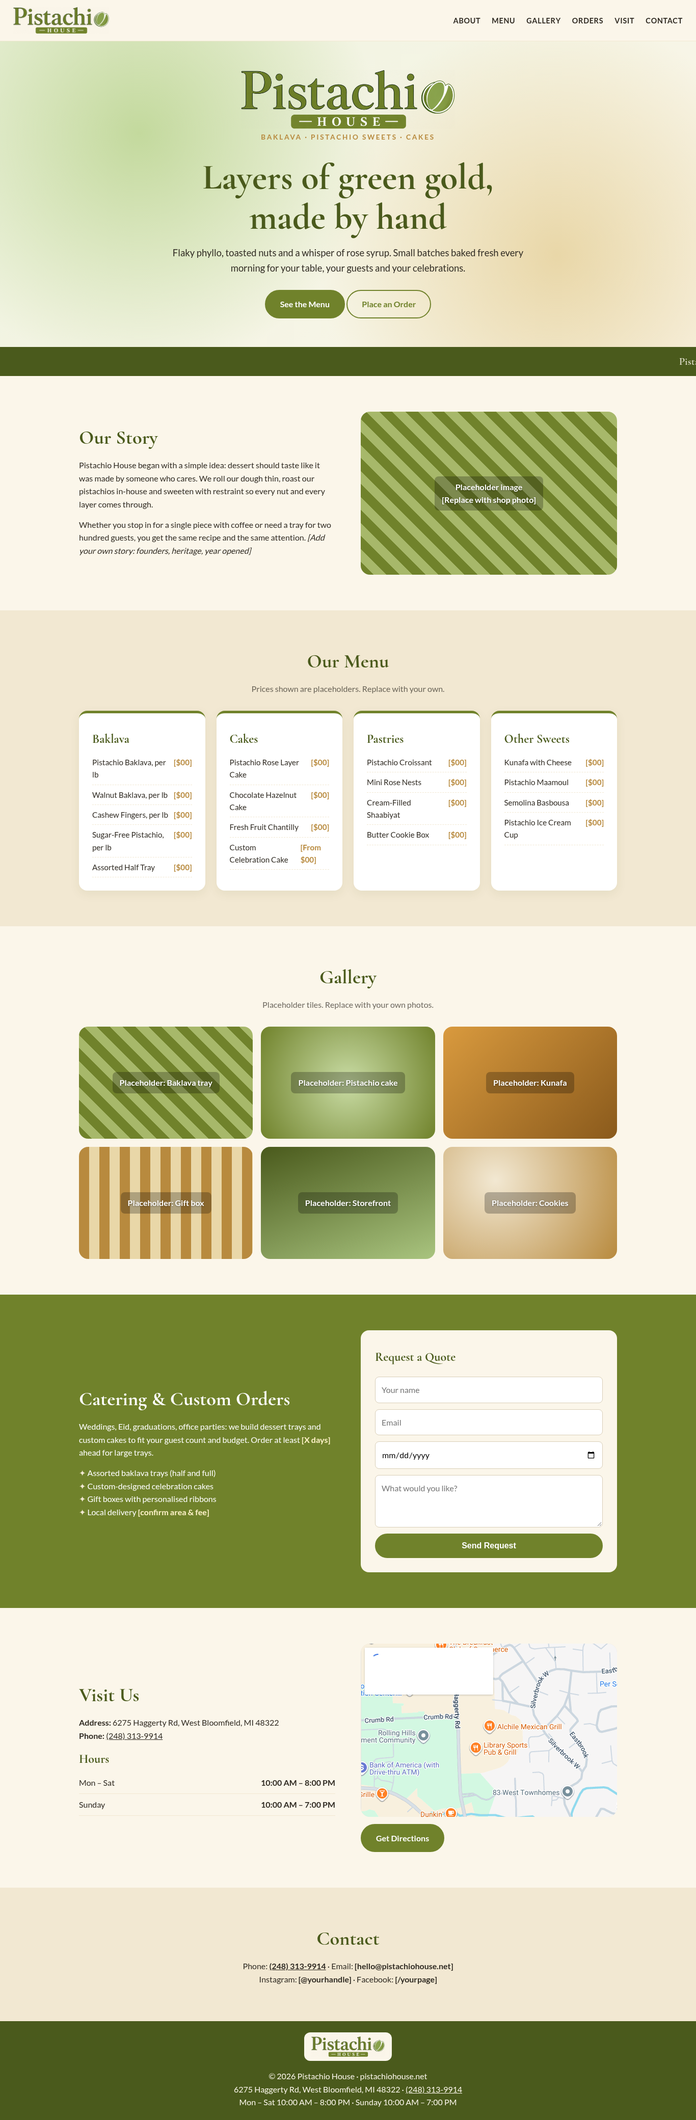
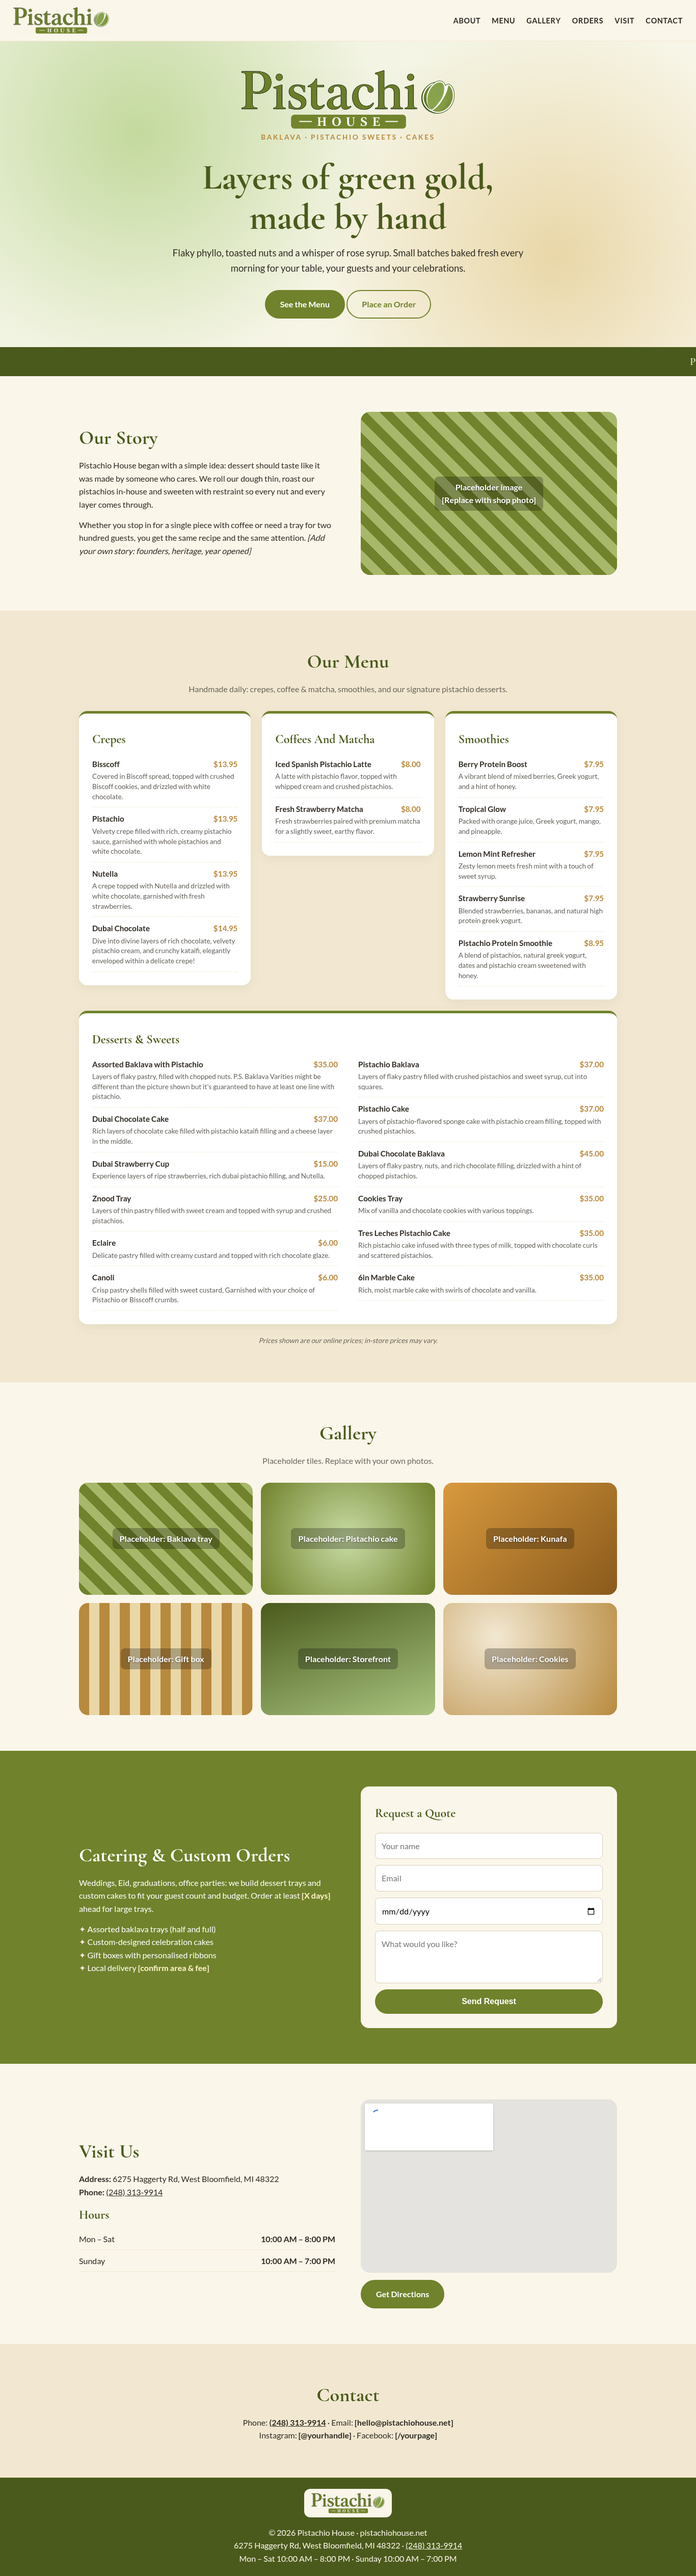
Replace sample menu with real DoorDash menu

diff --git a/index.html b/index.html
@@ -16,12 +16,12 @@
 <div class="ribbon"><span>Pistachio Baklava ✦ Celebration Cakes ✦ Kunafa ✦ Sugar-Free Options ✦ Butter Cookies ✦ Gift Trays ✦</span></div>
 <section id="about" class="wrap two"><div><h2>Our Story</h2><p>Pistachio House began with a simple idea: dessert should taste like it was made by someone who cares. We roll our dough thin, roast our pistachios in-house and sweeten with restraint so every nut and every layer comes through.</p><p>Whether you stop in for a single piece with coffee or need a tray for two hundred guests, you get the same recipe and the same attention. <em>[Add your own story: founders, heritage, year opened]</em></p></div>
 <div class="art art1" role="img" aria-label="Decorative illustration placeholder"><span>Placeholder image<br>[Replace with shop photo]</span></div></section>
-<section id="menu" class="cream"><div class="wrap"><h2 class="c">Our Menu</h2><p class="c sub">Prices shown are placeholders. Replace with your own.</p><div class="grid">
-<div class="card"><h3>Baklava</h3><ul><li>Pistachio Baklava, per lb <b>[$00]</b></li><li>Walnut Baklava, per lb <b>[$00]</b></li><li>Cashew Fingers, per lb <b>[$00]</b></li><li>Sugar-Free Pistachio, per lb <b>[$00]</b></li><li>Assorted Half Tray <b>[$00]</b></li></ul></div>
-<div class="card"><h3>Cakes</h3><ul><li>Pistachio Rose Layer Cake <b>[$00]</b></li><li>Chocolate Hazelnut Cake <b>[$00]</b></li><li>Fresh Fruit Chantilly <b>[$00]</b></li><li>Custom Celebration Cake <b>[From $00]</b></li></ul></div>
-<div class="card"><h3>Pastries</h3><ul><li>Pistachio Croissant <b>[$00]</b></li><li>Mini Rose Nests <b>[$00]</b></li><li>Cream-Filled Shaabiyat <b>[$00]</b></li><li>Butter Cookie Box <b>[$00]</b></li></ul></div>
-<div class="card"><h3>Other Sweets</h3><ul><li>Kunafa with Cheese <b>[$00]</b></li><li>Pistachio Maamoul <b>[$00]</b></li><li>Semolina Basbousa <b>[$00]</b></li><li>Pistachio Ice Cream Cup <b>[$00]</b></li></ul></div>
-</div></div></section>
+<section id="menu" class="cream"><div class="wrap"><h2 class="c">Our Menu</h2><p class="c sub">Handmade daily: crepes, coffee &amp; matcha, smoothies, and our signature pistachio desserts.</p><div class="grid menu-grid">
+<div class="card"><h3>Crepes</h3><ul><li><div class="mi"><span class="mn">Bisscoff</span><b>$13.95</b></div><p class="md">Covered in Biscoff spread, topped with crushed Biscoff cookies, and drizzled with white chocolate.</p></li><li><div class="mi"><span class="mn">Pistachio</span><b>$13.95</b></div><p class="md">Velvety crepe filled with rich, creamy pistachio sauce, garnished with whole pistachios and white chocolate.</p></li><li><div class="mi"><span class="mn">Nutella</span><b>$13.95</b></div><p class="md">A crepe topped with Nutella and drizzled with white chocolate, garnished with fresh strawberries.</p></li><li><div class="mi"><span class="mn">Dubai Chocolate</span><b>$14.95</b></div><p class="md">Dive into divine layers of rich chocolate, velvety pistachio cream, and crunchy kataifi, elegantly enveloped within a delicate crepe!</p></li></ul></div>
+<div class="card"><h3>Coffees And Matcha</h3><ul><li><div class="mi"><span class="mn">Iced Spanish Pistachio Latte</span><b>$8.00</b></div><p class="md">A latte with pistachio flavor, topped with whipped cream and crushed pistachios.</p></li><li><div class="mi"><span class="mn">Fresh Strawberry Matcha</span><b>$8.00</b></div><p class="md">Fresh strawberries paired with premium matcha for a slightly sweet, earthy flavor.</p></li></ul></div>
+<div class="card"><h3>Smoothies</h3><ul><li><div class="mi"><span class="mn">Berry Protein Boost</span><b>$7.95</b></div><p class="md">A vibrant blend of mixed berries, Greek yogurt, and a hint of honey.</p></li><li><div class="mi"><span class="mn">Tropical Glow</span><b>$7.95</b></div><p class="md">Packed with orange juice, Greek yogurt, mango, and pineapple.</p></li><li><div class="mi"><span class="mn">Lemon Mint Refresher</span><b>$7.95</b></div><p class="md">Zesty lemon meets fresh mint with a touch of sweet syrup.</p></li><li><div class="mi"><span class="mn">Strawberry Sunrise</span><b>$7.95</b></div><p class="md">Blended strawberries, bananas, and natural high protein greek yogurt.</p></li><li><div class="mi"><span class="mn">Pistachio Protein Smoothie</span><b>$8.95</b></div><p class="md">A blend of pistachios, natural greek yogurt, dates and pistachio cream sweetened with honey.</p></li></ul></div>
+<div class="card"><h3>Desserts &amp; Sweets</h3><ul><li><div class="mi"><span class="mn">Assorted Baklava with Pistachio</span><b>$35.00</b></div><p class="md">Layers of flaky pastry, filled with chopped nuts. P.S. Baklava Varities might be different than the picture shown but it&#x27;s guaranteed to have at least one line with pistachio.</p></li><li><div class="mi"><span class="mn">Dubai Chocolate Cake</span><b>$37.00</b></div><p class="md">Rich layers of chocolate cake filled with pistachio kataifi filling and a cheese layer in the middle.</p></li><li><div class="mi"><span class="mn">Dubai Strawberry Cup</span><b>$15.00</b></div><p class="md">Experience layers of ripe strawberries, rich dubai pistachio filling, and Nutella.</p></li><li><div class="mi"><span class="mn">Znood Tray</span><b>$25.00</b></div><p class="md">Layers of thin pastry filled with sweet cream and topped with syrup and crushed pistachios.</p></li><li><div class="mi"><span class="mn">Eclaire</span><b>$6.00</b></div><p class="md">Delicate pastry filled with creamy custard and topped with rich chocolate glaze.</p></li><li><div class="mi"><span class="mn">Canoli</span><b>$6.00</b></div><p class="md">Crisp pastry shells filled with sweet custard, Garnished with your choice of Pistachio or Bisscoff crumbs.</p></li><li><div class="mi"><span class="mn">Pistachio Baklava</span><b>$37.00</b></div><p class="md">Layers of flaky pastry filled with crushed pistachios and sweet syrup, cut into squares.</p></li><li><div class="mi"><span class="mn">Pistachio Cake</span><b>$37.00</b></div><p class="md">Layers of pistachio-flavored sponge cake with pistachio cream filling, topped with crushed pistachios.</p></li><li><div class="mi"><span class="mn">Dubai Chocolate Baklava</span><b>$45.00</b></div><p class="md">Layers of flaky pastry, nuts, and rich chocolate filling, drizzled with a hint of chopped pistachios.</p></li><li><div class="mi"><span class="mn">Cookies Tray</span><b>$35.00</b></div><p class="md">Mix of vanilla and chocolate cookies with various toppings.</p></li><li><div class="mi"><span class="mn">Tres Leches Pistachio Cake</span><b>$35.00</b></div><p class="md">Rich pistachio cake infused with three types of milk, topped with chocolate curls and scattered pistachios.</p></li><li><div class="mi"><span class="mn">6in Marble Cake</span><b>$35.00</b></div><p class="md">Rich, moist marble cake with swirls of chocolate and vanilla.</p></li></ul></div>
+</div><p class="c note">Prices shown are our online prices; in-store prices may vary.</p></div></section>
 <section id="gallery" class="wrap"><h2 class="c">Gallery</h2><p class="c sub">Placeholder tiles. Replace with your own photos.</p><div class="gal">
 <div class="art g1"><span>Placeholder: Baklava tray</span></div><div class="art g2"><span>Placeholder: Pistachio cake</span></div><div class="art g3"><span>Placeholder: Kunafa</span></div><div class="art g4"><span>Placeholder: Gift box</span></div><div class="art g5"><span>Placeholder: Storefront</span></div><div class="art g6"><span>Placeholder: Cookies</span></div></div></section>
 <section id="orders" class="green"><div class="wrap two"><div><h2>Catering &amp; Custom Orders</h2><p>Weddings, Eid, graduations, office parties: we build dessert trays and custom cakes to fit your guest count and budget. Order at least <b>[X days]</b> ahead for large trays.</p><ul class="ticks"><li>Assorted baklava trays (half and full)</li><li>Custom-designed celebration cakes</li><li>Gift boxes with personalised ribbons</li><li>Local delivery <b>[confirm area &amp; fee]</b></li></ul></div>

diff --git a/styles.css b/styles.css
@@ -37,3 +37,11 @@ footer a,#visit a:not(.btn),#contact a{color:inherit}
 .foot-logo{height:56px;width:auto;margin-bottom:10px;background:var(--c);padding:8px 14px;border-radius:12px}
 footer a{color:inherit}
 @media(max-width:780px){.logo img{height:40px}}
+.menu-grid{grid-template-columns:repeat(auto-fit,minmax(250px,1fr));align-items:start}
+.card li.x,.menu-grid .card li{display:block;padding:10px 0}
+.mi{display:flex;justify-content:space-between;gap:10px;font-weight:700}.mi b{white-space:nowrap}
+.md{font-size:.85rem;opacity:.75;margin-top:3px;line-height:1.45}
+.note{font-size:.85rem;opacity:.7;margin-top:22px;font-style:italic}
+.menu-grid .card:last-child{grid-column:1/-1}.menu-grid .card:last-child ul{columns:2;column-gap:40px}
+.menu-grid .card li{break-inside:avoid}
+@media(max-width:780px){.menu-grid .card:last-child ul{columns:1}}
